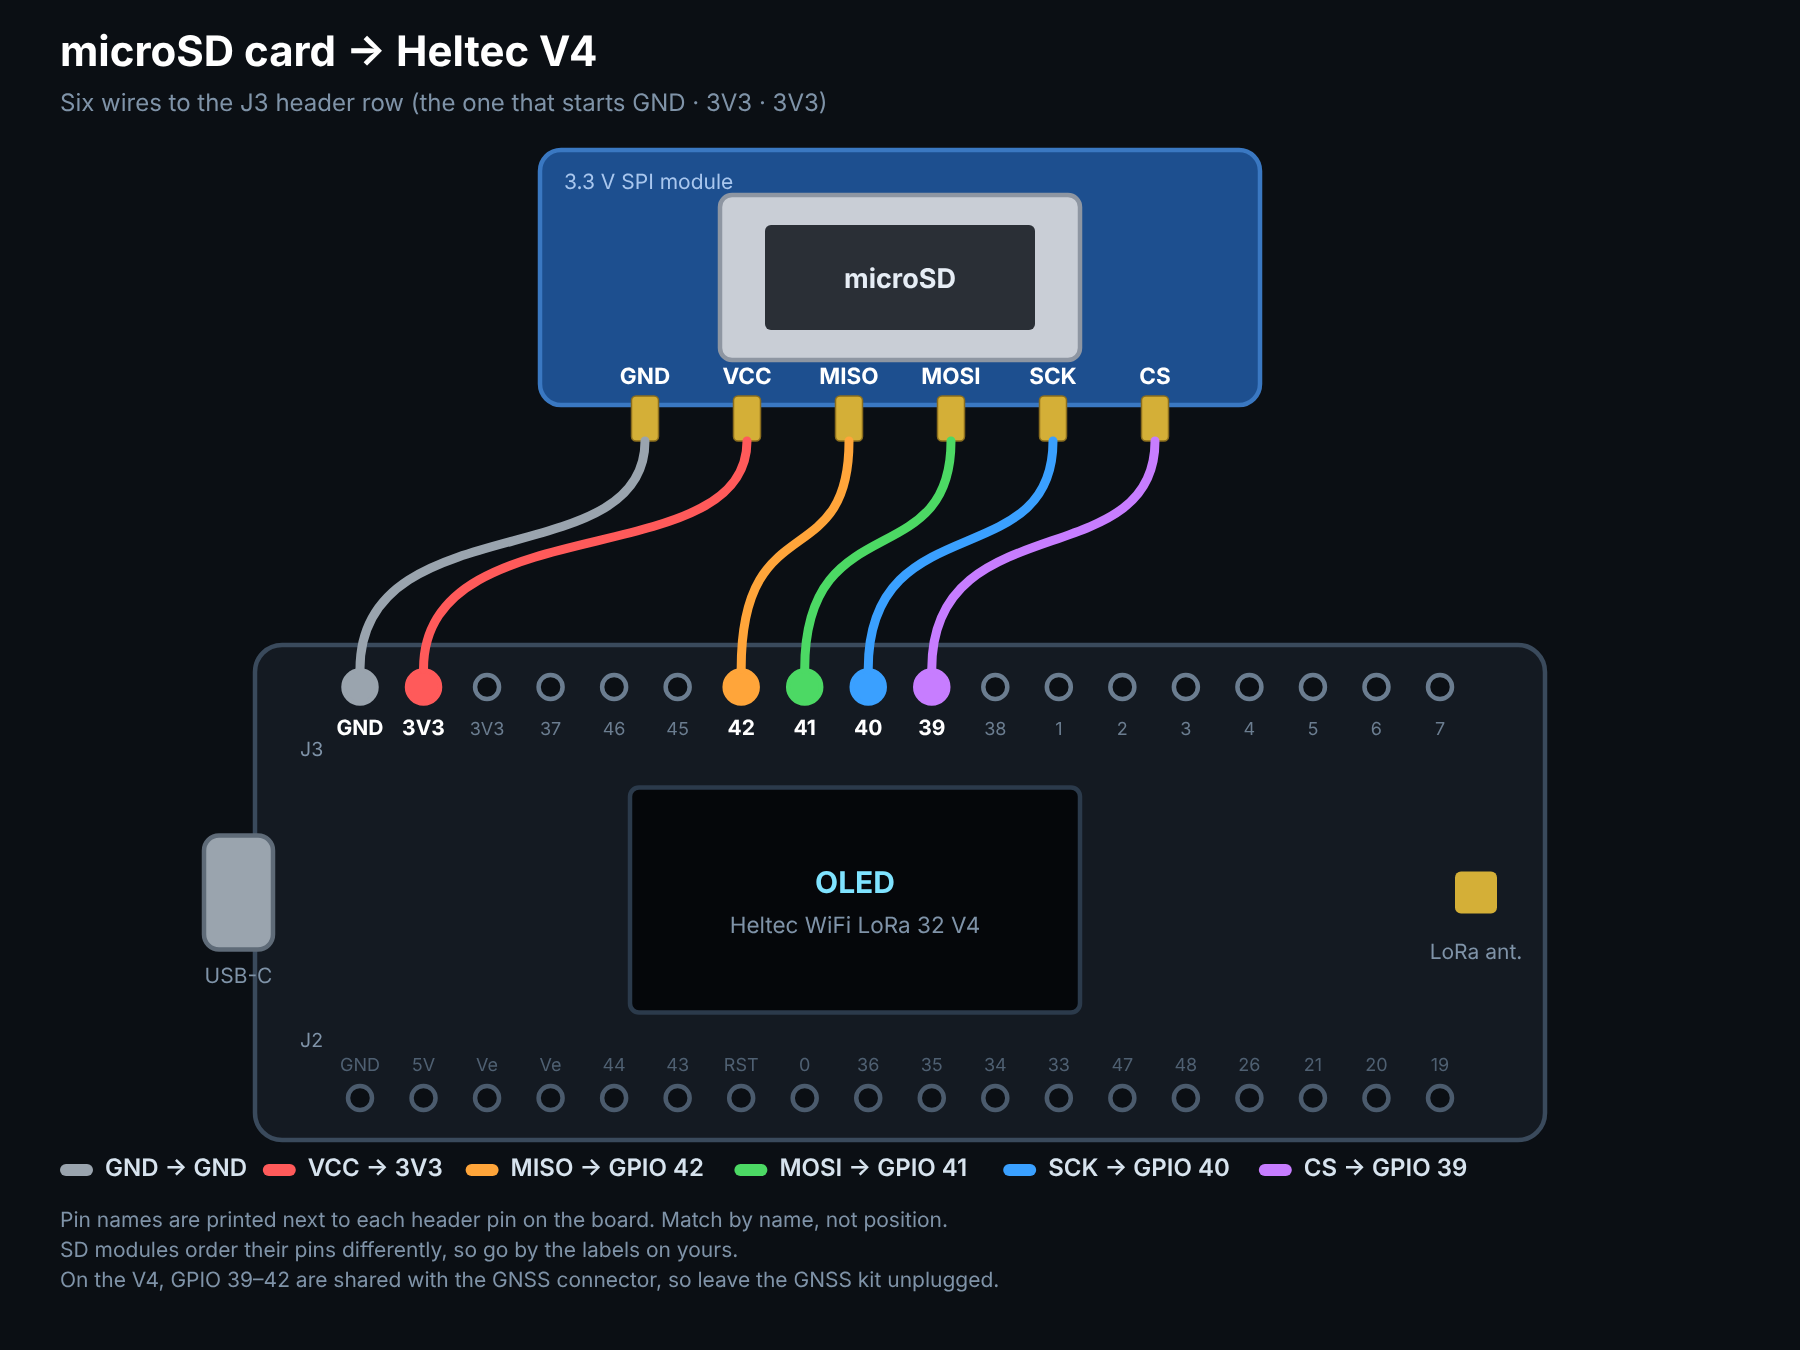
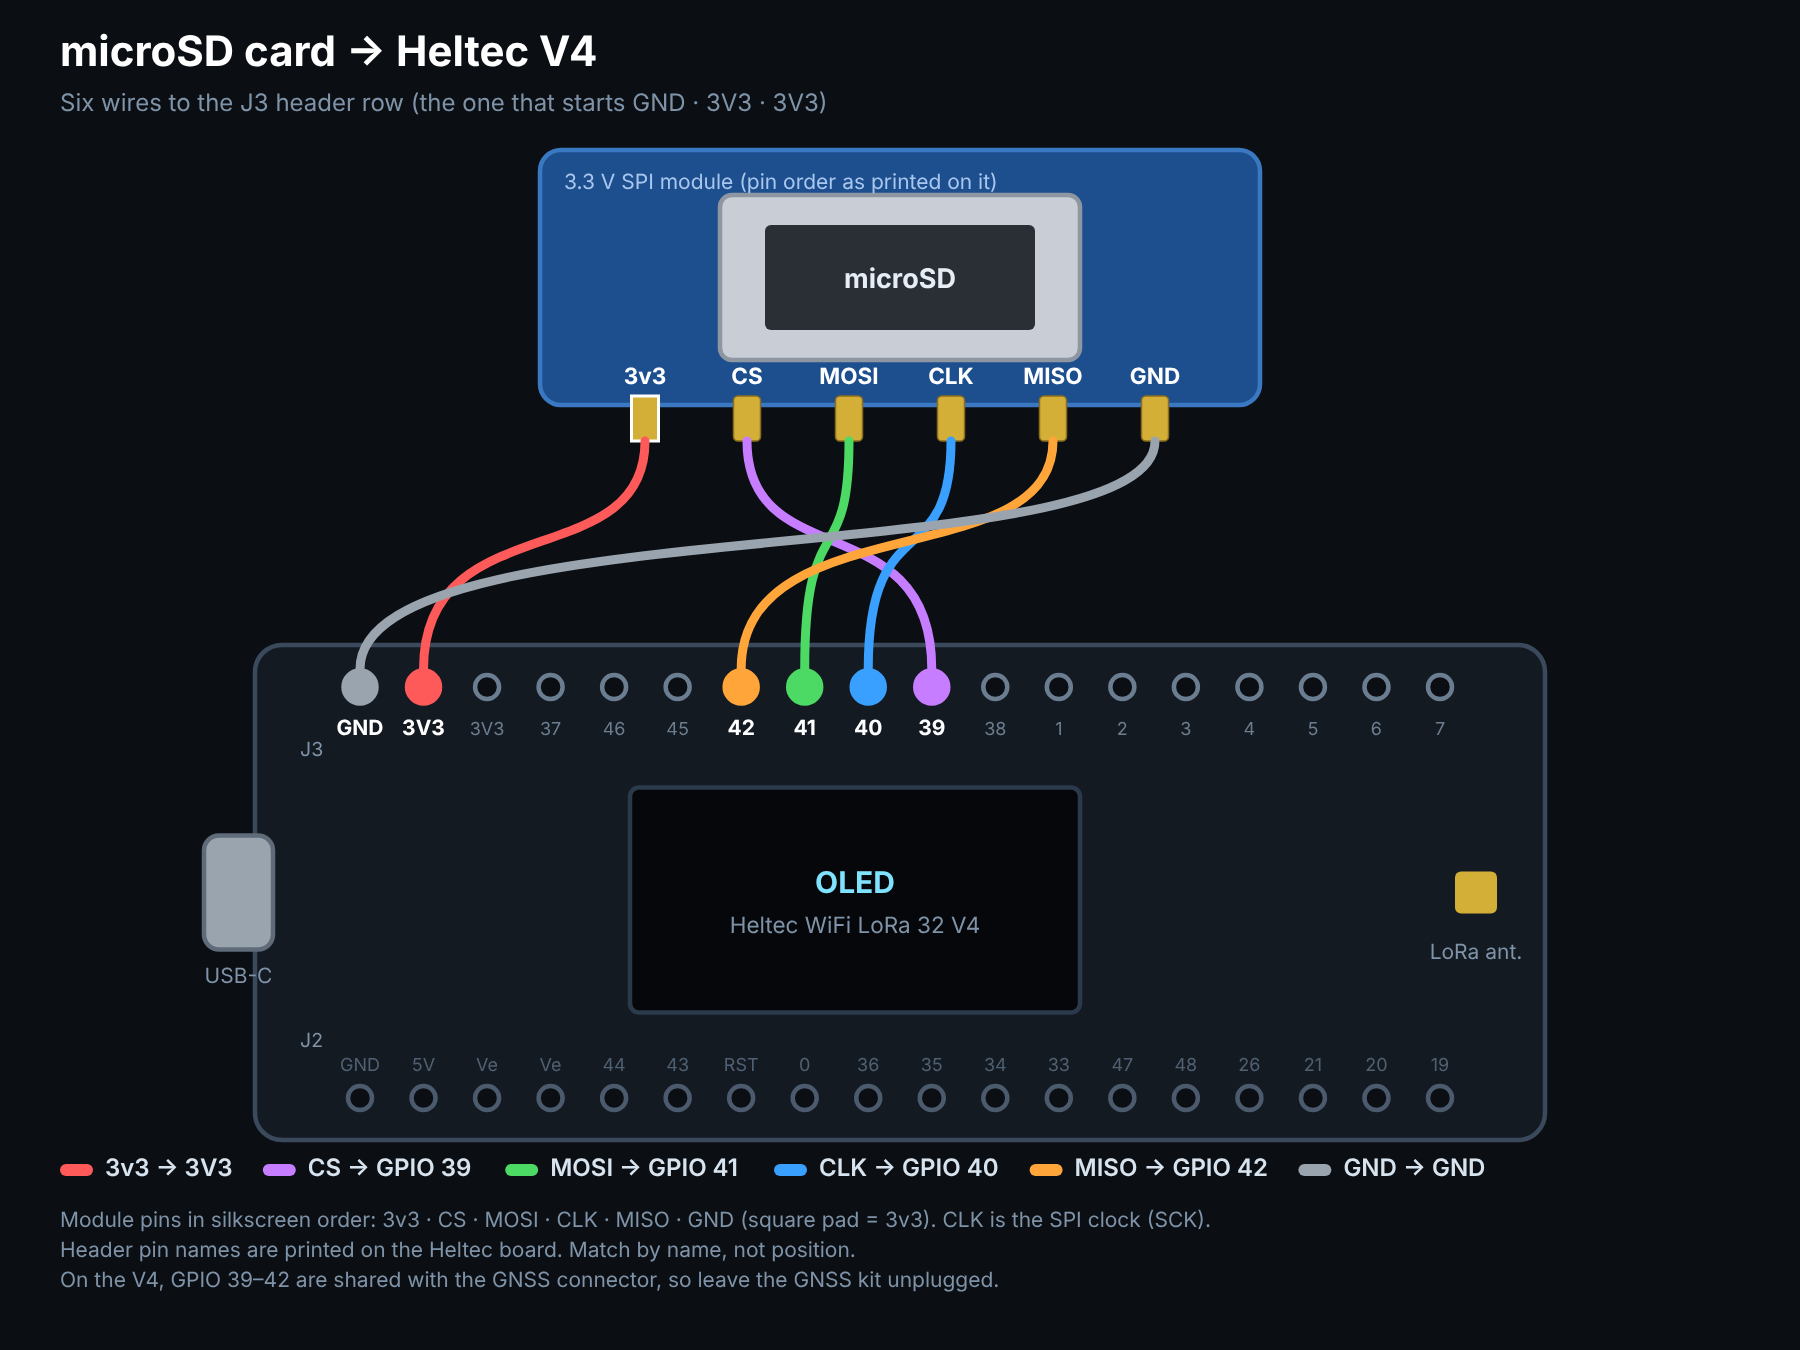
microSD wiring diagram: match the module's real silkscreen order (3v3, CS, MOSI, CLK, MISO, GND)
Claude-Session: https://claude.ai/code/session_013eymtVyeTra8gyofb6RSXp

diff --git a/docs/index.html b/docs/index.html
@@ -117,10 +117,10 @@ import { ESPLoader, Transport } from './esptool-bundle.js';
 
 const BOARDS = {
   v3: { name: 'Heltec V3', version: '1.1.0', bin: 'firmware/heltec-v3-mp3-bt-v1.1.0.bin', repo: 'https://github.com/hardwaremack-prog/Heltec-V3-MP3-BT',
-        rows: [['microSD','SCK 40 · MOSI 41 · MISO 42 · CS 39 · 3V3 · GND'],['PCM5102A DAC','BCK 48 · LCK 47 · DIN 33 · SCK→GND · VIN 3V3'],
+        rows: [['microSD','CLK 40 · MOSI 41 · MISO 42 · CS 39 · 3v3→3V3 · GND'],['PCM5102A DAC','BCK 48 · LCK 47 · DIN 33 · SCK→GND · VIN 3V3'],
                ['Buttons (to GND)','UP 4 · DOWN 5 · OK 6 · BACK 7'],['KCX_BT_EMITTER','+5V→5V · RX←GPIO 2 · TX→GPIO 3 · LINK→GPIO 38 (via 3.3↔5 V level shifter) · AUDIO L/R/AGND→DAC']] },
   v4: { name: 'Heltec V4', version: '2.0.0', bin: 'firmware/heltec-v4-mp3-bt-v2.0.0.bin', repo: 'https://github.com/hardwaremack-prog/Heltec-V4-MP3-BT',
-        rows: [['microSD','SCK 40 · MOSI 41 · MISO 42 · CS 39 · 3V3 · GND (don\'t plug in the GNSS kit)'],['PCM5102A DAC','BCK 48 · LCK 47 · DIN 33 · SCK→GND · VIN 3V3'],
+        rows: [['microSD','CLK 40 · MOSI 41 · MISO 42 · CS 39 · 3v3→3V3 · GND (don\'t plug in the GNSS kit)'],['PCM5102A DAC','BCK 48 · LCK 47 · DIN 33 · SCK→GND · VIN 3V3'],
                ['Buttons (to GND)','UP 4 · DOWN 6 · OK 3 · BACK 34'],['KCX_BT_EMITTER','+5V→5V · RX←GPIO 43 (TX pin) · TX→GPIO 44 (RX pin) · LINK→GPIO 38 (via level shifter) · AUDIO L/R/AGND→DAC'],
                ['Battery','1-cell LiPo in the battery plug. The gauge needs no wiring.']] },
 };

diff --git a/tools/wiring_diagram.py b/tools/wiring_diagram.py
@@ -9,7 +9,7 @@ def svg(board):
     topy=by+28; boty=by+bh-28
     # SD module
     sx,sy,sw,sh=360,60,480,170
-    sd=[('GND','GND','#9aa4ae',0),('VCC','3V3','#ff5a5a',1),('MISO','42','#ffa53a',6),('MOSI','41','#4cd964',7),('SCK','40','#3aa0ff',8),('CS','39','#c77dff',9)]
+    sd=[('3v3','3V3','#ff5a5a',1),('CS','39','#c77dff',9),('MOSI','41','#4cd964',7),('CLK','40','#3aa0ff',8),('MISO','42','#ffa53a',6),('GND','GND','#9aa4ae',0)]
     sdx=lambda k: sx+70+k*68
     o=[]
     o.append(f'<svg xmlns="http://www.w3.org/2000/svg" width="{W}" height="{H}" viewBox="0 0 {W} {H}" font-family="Segoe UI,Roboto,Helvetica,Arial,sans-serif">')
@@ -21,11 +21,11 @@ def svg(board):
     o.append(f'<rect x="{sx+120}" y="{sy+70}" width="240" height="110" rx="8" fill="#c9ced6" stroke="#8e96a2" stroke-width="3"/>')
     o.append(f'<rect x="{sx+150}" y="{sy+90}" width="180" height="70" rx="4" fill="#2a2f36"/>')
     o.append(f'<text x="{sx+240}" y="{sy+132}" fill="#e6edf5" font-size="18" font-weight="700" text-anchor="middle">microSD</text>')
-    o.append(f'<text x="{sx+16}" y="{sy+66}" fill="#a9c7ee" font-size="14">3.3 V SPI module</text>')
+    o.append(f'<text x="{sx+16}" y="{sy+66}" fill="#a9c7ee" font-size="14">3.3 V SPI module (pin order as printed on it)</text>')
     # SD pins along bottom edge of module
     for k,(lab,_,col,_) in enumerate(sd):
         x=sdx(k); y=sy+sh+40
-        o.append(f'<rect x="{x-9}" y="{y-6}" width="18" height="30" rx="3" fill="#d4af37" stroke="#8a6d1d"/>')
+        o.append(f'<rect x="{x-9}" y="{y-6}" width="18" height="30" rx="{0 if k==0 else 3}" fill="#d4af37" stroke="{"#fff" if k==0 else "#8a6d1d"}" stroke-width="{2 if k==0 else 1}"/>')
         o.append(f'<text x="{x}" y="{y-14}" fill="#fff" font-size="15" font-weight="700" text-anchor="middle">{lab}</text>')
     # board
     o.append(f'<rect x="{bx}" y="{by}" width="{bw}" height="{bh}" rx="18" fill="#141a22" stroke="#3a4a5c" stroke-width="3"/>')
@@ -62,7 +62,7 @@ def svg(board):
         x+=30+len(t)*8.8+26
     note='Pin names are printed next to each header pin on the board. Match by name. SD modules order their pins differently, so go by the labels.'
     if board=='V4': note+=' On the V4, GPIO 39–42 are shared with the GNSS connector, so leave the GNSS kit unplugged.'
-    lines=['Pin names are printed next to each header pin on the board. Match by name, not position.','SD modules order their pins differently, so go by the labels on yours.']
+    lines=['Module pins in silkscreen order: 3v3 · CS · MOSI · CLK · MISO · GND (square pad = 3v3). CLK is the SPI clock (SCK).','Header pin names are printed on the Heltec board. Match by name, not position.']
     if board=='V4': lines.append('On the V4, GPIO 39–42 are shared with the GNSS connector, so leave the GNSS kit unplugged.')
     for n,l in enumerate(lines): o.append(f'<text x="40" y="{ly+28+n*20}" fill="#7f93a8" font-size="14">{l}</text>')
     o.append('</svg>')

diff --git a/README.md b/README.md
@@ -60,7 +60,7 @@ For wireless updates from the web page (System tab), use `releases/heltec-mp3-ap
 | microSD module (3.3 V SPI) | Heltec V3 |
 |---|---|
 | VCC / GND | 3V3 / GND |
-| SCK | GPIO 40 |
+| CLK (SCK) | GPIO 40 |
 | MOSI | GPIO 41 |
 | MISO | GPIO 42 |
 | CS | GPIO 39 |
